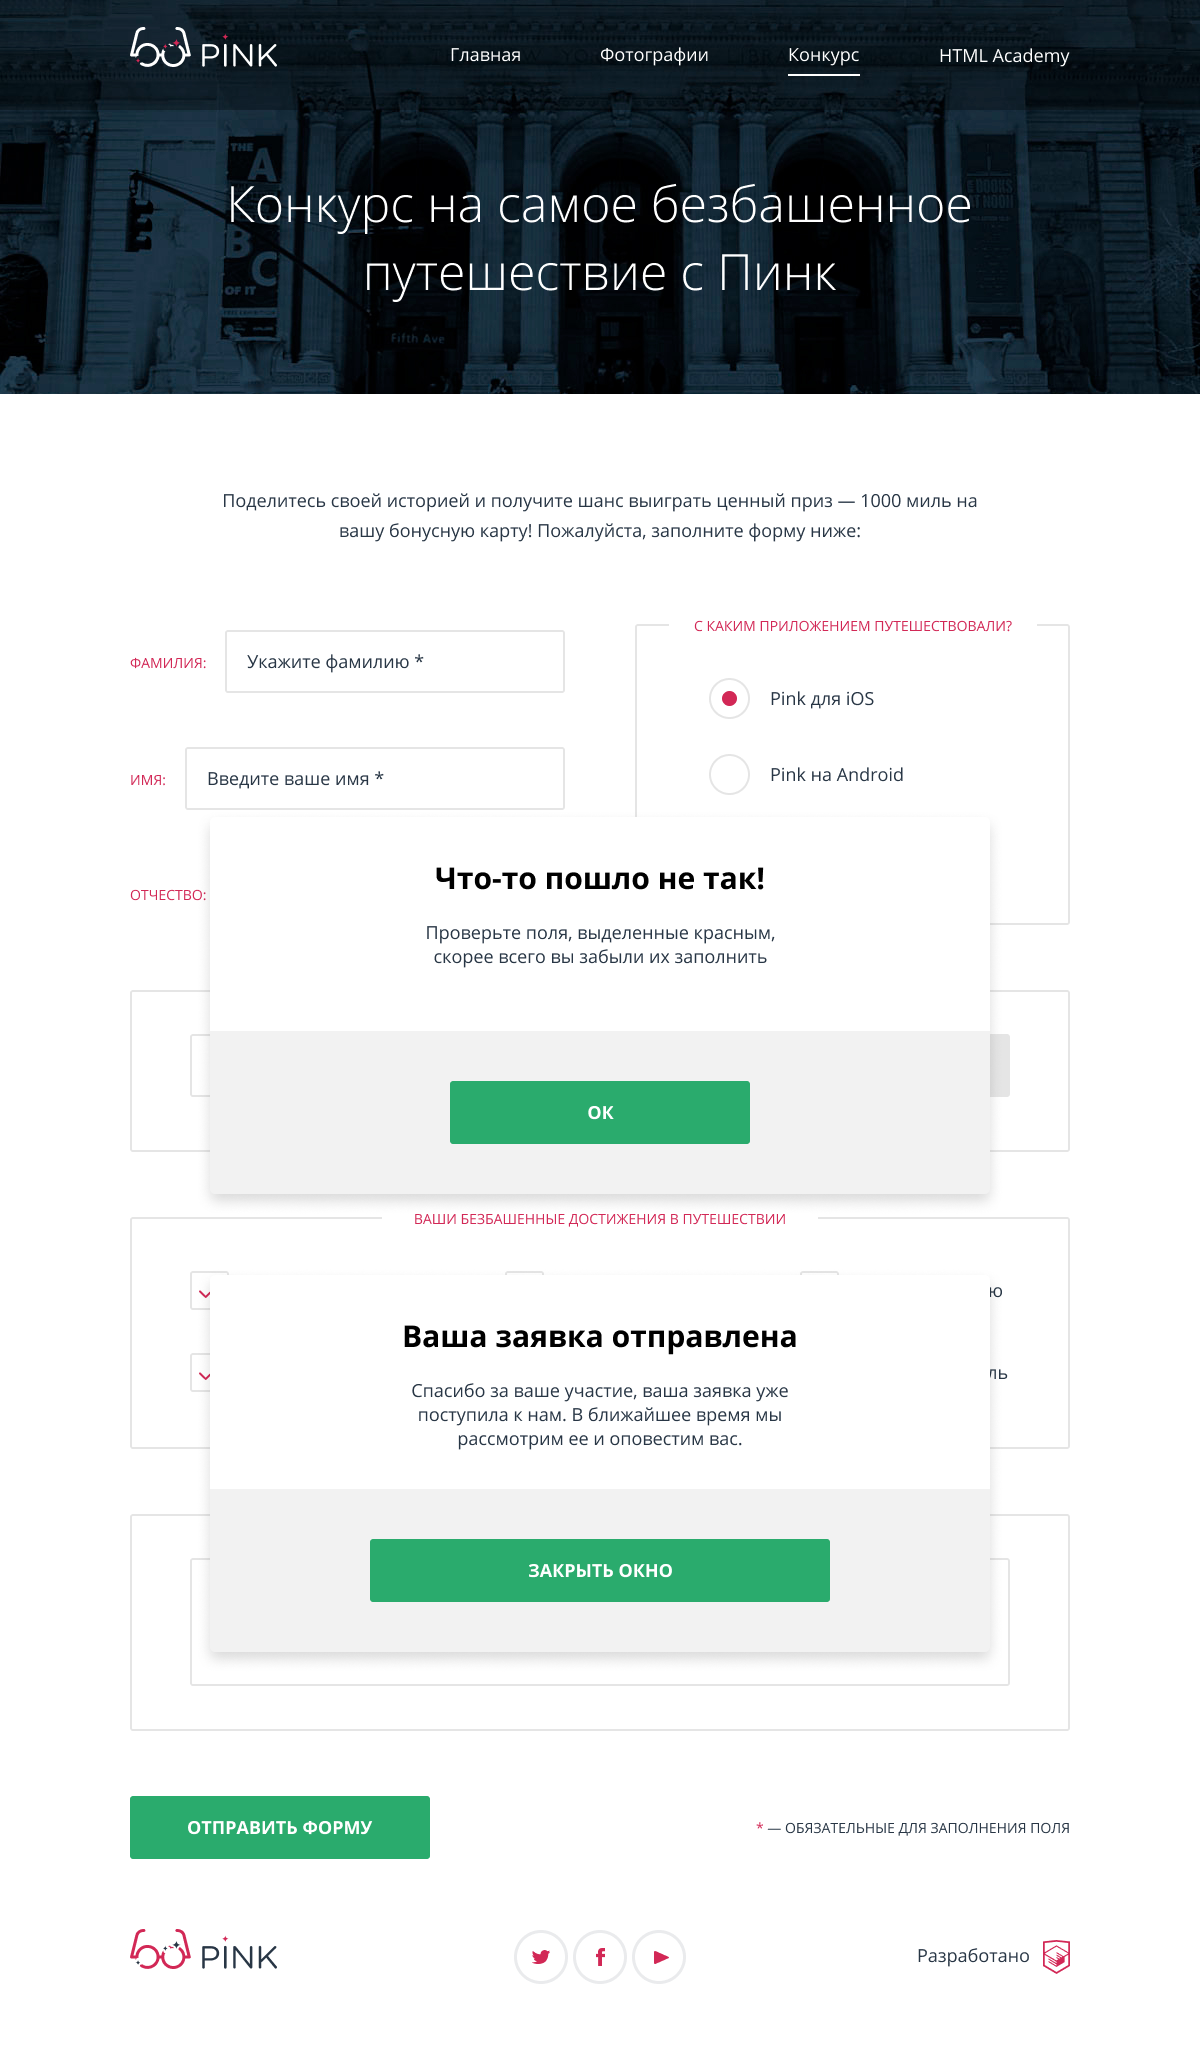
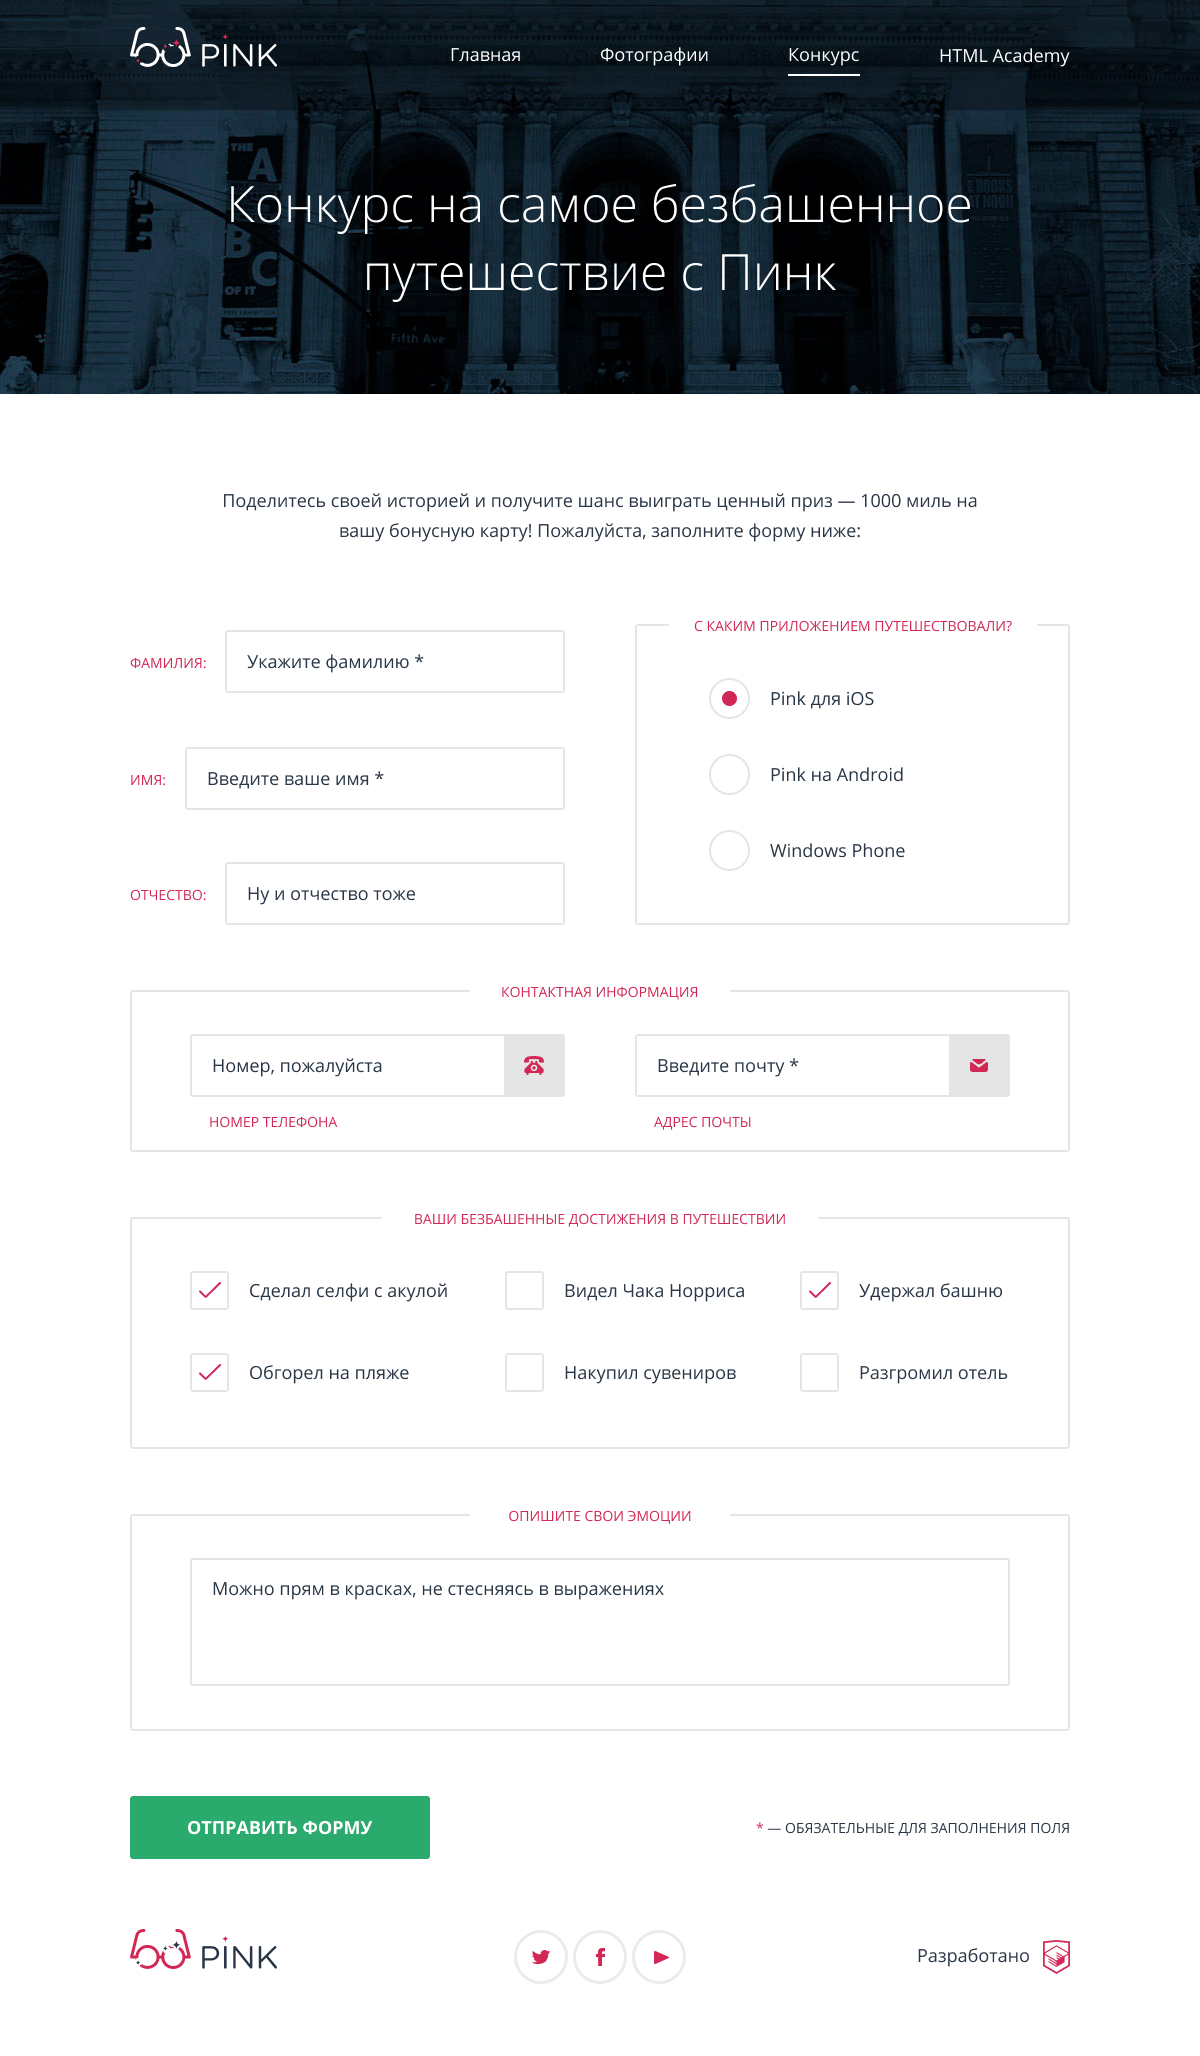
fix: form desktop layout and styles

Changed region(s): [[0.37, 0.4047, 0.6475, 0.5603], [0.3392, 0.6226, 0.6783, 0.716], [0.3083, 0.7471, 0.7092, 0.8093]]

diff --git a/source/sass/blocks/form.scss b/source/sass/blocks/form.scss
@@ -10,6 +10,7 @@
     flex-direction: row;
     flex-wrap: wrap;
     justify-content: space-between;
+    align-items: flex-start;
   }
 }
 
@@ -59,9 +60,10 @@
   }
 
   @media #{$desktop-min} {
-    flex-grow: 4;
-    margin-right: 75px;
     margin-bottom: 10px;
+    padding-top: 15px;
+    padding-bottom: 0;
+    width: 435px;
   }
 }
 
@@ -76,8 +78,8 @@
   }
 
   @media #{$desktop-min} {
-    flex-grow: 3;
-    margin-bottom: 55px;
+    margin-bottom: 60px;
+    width: 433px;
   }
 }
 
@@ -92,8 +94,11 @@
   }
 
   @media #{$desktop-min} {
+    margin-bottom: 57px;
+    padding-top: 33px;
+    padding-bottom: 14px;
     width: 100%;
-    margin-bottom: 65px;
+
   }
 }
 
@@ -108,6 +113,7 @@
   }
 
   @media #{$desktop-min} {
+    padding-bottom: 54px;
     width: 100%;
   }
 }
@@ -123,7 +129,7 @@
 
   @media #{$desktop-min} {
     width: 100%;
-    padding-bottom: 40px;
+    padding-bottom: 35px;
   }
 }
 
@@ -134,6 +140,10 @@
 
   @media #{$tablet-min} {
     padding-left: 58px;
+  }
+
+  @media #{$desktop-min} {
+    padding-left: 70px;
   }
 }
 
@@ -148,7 +158,6 @@
 
   @media #{$desktop-min} {
     justify-content: space-between;
-    padding-bottom: 20px;
   }
 }
 
@@ -161,11 +170,11 @@
   }
 
   @media #{$desktop-min} {
-    box-sizing: border-box;
-    flex-direction: row;
-    flex-wrap: wrap;
-    padding-top: 52px;
-    padding-bottom: 15px;
+    display: grid;
+    grid-template: repeat(2, min-content) / max-content max-content 1fr;
+    grid-row-gap: 42px;
+    grid-column-gap: 59px;
+    grid-auto-flow: column;
   }
 }
 
@@ -224,7 +233,7 @@
   }
 
   @media #{$desktop-min} {
-    margin-bottom: 30px;
+    margin-bottom: 23px;
   }
 }
 
@@ -250,7 +259,7 @@
   }
 
   @media #{$desktop-min} {
-    margin-bottom: 50px;
+    margin-bottom: 52px;
   }
 
   &:last-child {
@@ -260,6 +269,10 @@
 
 .form__fieldset-item--achievements {
   margin-bottom: 42px;
+
+  @media #{$desktop-min} {
+    margin-bottom: 0;
+  }
 
   &:last-child {
     margin-bottom: 0;
@@ -277,7 +290,7 @@
   }
 
   @media #{$desktop-min} {
-    width: 370px;
+    width: 376px;
     margin-bottom: 0;
   }
 
@@ -359,7 +372,7 @@
   }
 
   @media #{$desktop-min} {
-    padding-left: 130px;
+    padding-left: 61px;
   }
 }
 
@@ -514,7 +527,7 @@ input {
 
   @media #{$desktop-min} {
     width: 815px;
-    min-height: 193px;
+    min-height: 128px;
   }
 }
 

diff --git a/source/sass/blocks/page-headline.scss b/source/sass/blocks/page-headline.scss
@@ -22,7 +22,7 @@
 
   @media #{$desktop-min} {
     background-image: url("../img/bg-back-desktop@1x.jpg");
-    background-position: center top 15px;
+    background-position: center top;
     background-size: 2560px 853px;
 
     @media (min-resolution: 2dppx) {
@@ -50,6 +50,8 @@
 
 .page-headline__text {
   @include c280;
+  margin-top: 0;
+  margin-bottom: 0;
   color: $basic-white;
   font-size: 24px;
   font-weight: 300;
@@ -63,7 +65,7 @@
 
   @media #{$desktop-min} {
     @include c;
-    width: 347px;
+    width: 760px;
   }
 
   .main--form & {

diff --git a/source/sass/blocks/main-form.scss b/source/sass/blocks/main-form.scss
@@ -1,15 +1,16 @@
 .main-form__page-headline {
-  padding-top: 77px;
-  padding-bottom: 29px;
+
+  padding-top: 94px;
+  padding-bottom: 44px;
 
   @media #{$tablet-min} {
-    padding-top: 144px;
-    padding-bottom: 25px;
+    padding-top: 177px;
+    padding-bottom: 59px;
   }
 
   @media #{$desktop-min} {
-    padding-top: 136px;
-    padding-bottom: 60px;
+    padding-top: 170px;
+    padding-bottom: 88px;
   }
 }
 

diff --git a/source/sass/blocks/main-nav.scss b/source/sass/blocks/main-nav.scss
@@ -223,7 +223,7 @@
       &::after {
         position: absolute;
         right: 0;
-        bottom: -10px;
+        bottom: -14px;
         left: 0;
         height: 2px;
         background: $basic-white;

diff --git a/source/sass/blocks/page.scss b/source/sass/blocks/page.scss
@@ -38,4 +38,8 @@
   @media #{$tablet-min} {
     padding-bottom: 52px;
   }
+
+  @media #{$desktop-min} {
+    padding-bottom: 3px;
+  }
 }

diff --git a/source/sass/blocks/competition.scss b/source/sass/blocks/competition.scss
@@ -42,6 +42,5 @@
 
   @media #{$desktop-min} {
     @include c940;
-    padding-top: 80px;
   }
 }
